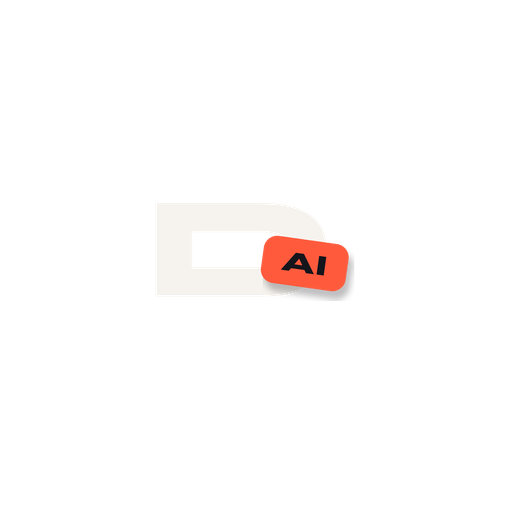
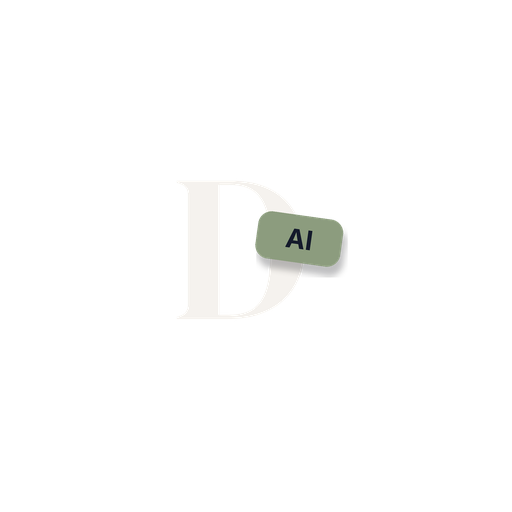
Nouvelle identité : bleu nuit, kaki et sable, titres en DM Serif Display
Claude-Session: https://claude.ai/code/session_01YU2vJee3xSV8i4XqAumL4W

Changed region(s): [[0.5, 0.4062, 0.6875, 0.5938]]

diff --git a/app/abonnement.tsx b/app/abonnement.tsx
@@ -49,7 +49,7 @@ function PlanCard({ plan, price, selected, onPress }: { plan: (typeof PLANS)[num
         </View>
         <View style={{ flexDirection: 'row', alignItems: 'center', gap: 10 }}>
           <AppText variant="bodyStrong">{price} {plan.unit}</AppText>
-          <Animated.View style={[{ width: 22, height: 22, borderRadius: 11, backgroundColor: '#FFFFFF' }, radio]} />
+          <Animated.View style={[{ width: 22, height: 22, borderRadius: 11, backgroundColor: colors.surface }, radio]} />
         </View>
       </Animated.View>
     </PressableScale>
@@ -107,32 +107,32 @@ export default function PaywallScreen() {
 
   return (
     <View style={{ flex: 1, backgroundColor: colors.background }}>
-      <View style={{ backgroundColor: '#2B44C6', borderBottomLeftRadius: 32, borderBottomRightRadius: 32 }}>
+      <View style={{ backgroundColor: colors.brand, borderBottomLeftRadius: 32, borderBottomRightRadius: 32 }}>
         <SafeAreaView edges={['top']} style={{ paddingHorizontal: 20, paddingBottom: 28, gap: 16 }}>
           <View style={{ flexDirection: 'row', justifyContent: 'space-between', alignItems: 'center', paddingTop: 8 }}>
-            <AppText style={{ fontFamily: fonts.display, fontSize: 14, letterSpacing: 2 }} color="#FFFFFF">DRESSING AI · PREMIUM</AppText>
+            <AppText style={{ fontFamily: fonts.display, fontSize: 14, letterSpacing: 2 }} color={colors.onBrand}>DRESSING AI · PREMIUM</AppText>
             <PressableScale accessibilityRole="button" accessibilityLabel="Fermer" onPress={() => router.back()}
-              style={{ width: 44, height: 44, borderRadius: 22, backgroundColor: 'rgba(255,255,255,0.16)', alignItems: 'center', justifyContent: 'center' }}>
-              <Icon name="close" size={18} color="#FFFFFF" strokeWidth={2} />
+              style={{ width: 44, height: 44, borderRadius: 22, backgroundColor: colors.onBrand + '29', alignItems: 'center', justifyContent: 'center' }}>
+              <Icon name="close" size={18} color={colors.onBrand} strokeWidth={2} />
             </PressableScale>
           </View>
           <Animated.View entering={FadeInDown.duration(motion.slow)}>
-            <AppText style={{ fontFamily: fonts.display, fontSize: 34, lineHeight: 36 }} color="#FFFFFF">Ton styliste perso, chaque matin.</AppText>
+            <AppText style={{ fontFamily: fonts.display, fontSize: 34, lineHeight: 36 }} color={colors.onBrand}>Ton styliste perso, chaque matin.</AppText>
           </Animated.View>
           <View style={{ gap: 10 }}>
             {PERKS.map((p, k) => (
               <Animated.View key={p} entering={FadeInDown.delay(100 + k * 60).duration(motion.slow)} style={{ flexDirection: 'row', alignItems: 'center', gap: 10 }}>
-                <View style={{ width: 24, height: 24, borderRadius: 12, backgroundColor: '#F6D867', alignItems: 'center', justifyContent: 'center' }}>
-                  <Icon name="check" size={13} color="#15151C" strokeWidth={2.8} />
+                <View style={{ width: 24, height: 24, borderRadius: 12, backgroundColor: colors.highlight, alignItems: 'center', justifyContent: 'center' }}>
+                  <Icon name="check" size={13} color={colors.onHighlight} strokeWidth={2.8} />
                 </View>
-                <AppText color="#FFFFFF" style={{ fontFamily: fonts.bodyMedium }}>{p}</AppText>
+                <AppText color={colors.onBrand} style={{ fontFamily: fonts.bodyMedium }}>{p}</AppText>
               </Animated.View>
             ))}
           </View>
         </SafeAreaView>
         <Animated.View entering={ZoomIn.delay(250).springify()} style={{ position: 'absolute', right: 18, bottom: -16 }}>
-          <View style={{ backgroundColor: '#FF5A3C', borderRadius: 14, paddingHorizontal: 14, paddingVertical: 9, transform: [{ rotate: '-5deg' }] }}>
-            <AppText style={{ fontFamily: fonts.display, fontSize: 14 }} color="#15151C">
+          <View style={{ backgroundColor: colors.accent, borderRadius: 14, paddingHorizontal: 14, paddingVertical: 9, transform: [{ rotate: '-5deg' }] }}>
+            <AppText style={{ fontFamily: fonts.bodyBold, fontSize: 14 }} color={colors.onAccent}>
               {access.state === 'premium' ? 'Premium' : access.state === 'trial' ? `${access.daysLeft} ${access.daysLeft > 1 ? 'jours' : 'jour'} d’essai` : 'Essai terminé'}
             </AppText>
           </View>

diff --git a/src/theme/tokens.ts b/src/theme/tokens.ts
@@ -1,18 +1,18 @@
 /**
- * Identité visuelle « le magazine du matin ».
+ * Identité visuelle « le magazine du matin » — palette « bleu nuit & kaki » (choix du fondateur, 2026-11-23).
  *
  * TOUT le style de l'appli part de ce fichier : changer une couleur ici la change partout.
  * Règle : aucun code couleur en dur dans les écrans, on passe toujours par `useTheme()`.
  */
 
 export const palette = {
-  cobalt: '#2B44C6', // couleur principale : boutons importants, éléments actifs
-  cobaltSoft: '#E9ECFB',
-  coral: '#FF5A3C', // accent : stickers, humeur, bouton Ajouter (texte encre dessus)
-  butter: '#F6D867', // petits badges, météo (texte encre dessus)
-  ink: '#15151C',
-  paper: '#F6F3EE',
-  paperRaised: '#FFFDF9',
+  night: '#1F2B4D', // bleu nuit : couleur principale (boutons importants, éléments actifs, en-tête Premium)
+  nightSoft: '#E3E6EF',
+  khaki: '#8C9C7E', // vert kaki : accent (stickers, humeur, bouton Premium ; texte encre dessus)
+  sand: '#F4DDAE', // sable : petits badges, météo (texte encre dessus)
+  ink: '#141A2B',
+  paper: '#F5F2EE',
+  paperRaised: '#FFFDFA',
   danger: '#B3261E',
   white: '#FFFFFF',
 } as const;
@@ -34,6 +34,9 @@ export type ThemeColors = {
   onHighlight: string;
   inverse: string;
   onInverse: string;
+  /** Couleur de marque, identique en mode clair et sombre (en-tête Premium). */
+  brand: string;
+  onBrand: string;
   chipBorder: string;
   track: string;
   danger: string;
@@ -43,52 +46,56 @@ export type ThemeColors = {
 export const lightColors: ThemeColors = {
   background: palette.paper,
   surface: palette.paperRaised,
-  surfaceBorder: '#ECE6DB',
-  divider: '#F0EBE2',
+  surfaceBorder: '#E6E2DA',
+  divider: '#EEEAE3',
   text: palette.ink,
-  textMuted: '#5F5B53',
-  textSubtle: '#9A9387',
-  primary: palette.cobalt,
-  primarySoft: palette.cobaltSoft,
+  textMuted: '#5D6170',
+  textSubtle: '#9497A3',
+  primary: palette.night,
+  primarySoft: palette.nightSoft,
   onPrimary: palette.white,
-  accent: palette.coral,
+  accent: palette.khaki,
   onAccent: palette.ink,
-  highlight: palette.butter,
+  highlight: palette.sand,
   onHighlight: palette.ink,
   inverse: palette.ink,
   onInverse: palette.paper,
-  chipBorder: '#DCD5C8',
-  track: '#D3CBBD',
+  brand: palette.night,
+  onBrand: palette.white,
+  chipBorder: '#D8D5CE',
+  track: '#CFCBC3',
   danger: palette.danger,
-  shadow: '#15151C',
+  shadow: palette.ink,
 };
 
 export const darkColors: ThemeColors = {
-  background: '#121218',
-  surface: '#1C1C24',
-  surfaceBorder: '#2A2A34',
-  divider: '#262630',
-  text: '#F3F0EA',
-  textMuted: '#ADA79C',
-  textSubtle: '#7D776D',
-  primary: '#6F84F0',
-  primarySoft: '#232A52',
-  onPrimary: '#0E1030',
-  accent: palette.coral,
-  onAccent: palette.ink,
-  highlight: palette.butter,
+  background: '#0F1320',
+  surface: '#171C2C',
+  surfaceBorder: '#252B3E',
+  divider: '#1F2536',
+  text: '#EEF0F6',
+  textMuted: '#A6ABBD',
+  textSubtle: '#737990',
+  primary: '#8FA3E0',
+  primarySoft: '#1E2742',
+  onPrimary: '#0F1320',
+  accent: '#A3B394',
+  onAccent: '#0F1320',
+  highlight: palette.sand,
   onHighlight: palette.ink,
-  inverse: palette.paper,
-  onInverse: palette.ink,
-  chipBorder: '#34343F',
-  track: '#3A3A44',
+  inverse: '#EEF0F6',
+  onInverse: '#0F1320',
+  brand: palette.night,
+  onBrand: palette.white,
+  chipBorder: '#2E3548',
+  track: '#343B50',
   danger: '#FF8A80',
   shadow: '#000000',
 };
 
 export const fonts = {
-  display: 'Syne_800ExtraBold',
-  displayBold: 'Syne_700Bold',
+  display: 'DMSerifDisplay_400Regular', // titres : serif élégante (une seule graisse)
+  displayBold: 'DMSerifDisplay_400Regular',
   body: 'Inter_400Regular',
   bodyMedium: 'Inter_500Medium',
   bodySemi: 'Inter_600SemiBold',

diff --git a/site/index.html b/site/index.html
@@ -2,16 +2,16 @@
 <html lang="fr"><head><meta charset="utf-8"><meta name="viewport" content="width=device-width, initial-scale=1">
 <title>Dressing AI · Ton look du jour, avec tes vêtements</title><meta name="description" content="Chaque matin, des tenues composées avec ta garde-robe, la météo et ton humeur.">
 <link rel="preconnect" href="https://fonts.googleapis.com"><link rel="preconnect" href="https://fonts.gstatic.com" crossorigin>
-<link href="https://fonts.googleapis.com/css2?family=Inter:wght@400;600&family=Syne:wght@700;800&display=swap" rel="stylesheet">
+<link href="https://fonts.googleapis.com/css2?family=Inter:wght@400;600;700&family=DM+Serif+Display&display=swap" rel="stylesheet">
 <style>
-:root{--paper:#F6F3EE;--ink:#15151C;--muted:#5F5B53;--cobalt:#2B44C6;--coral:#FF5A3C;--card:#FFFDF9}
-@media (prefers-color-scheme:dark){:root{--paper:#121218;--ink:#F3F0EA;--muted:#ADA79C;--cobalt:#6F84F0;--card:#1C1C24}}
+:root{--paper:#F5F2EE;--ink:#141A2B;--muted:#5D6170;--cobalt:#1F2B4D;--coral:#8C9C7E;--card:#FFFDFA}
+@media (prefers-color-scheme:dark){:root{--paper:#0F1320;--ink:#EEF0F6;--muted:#A6ABBD;--cobalt:#8FA3E0;--coral:#A3B394;--card:#171C2C}}
 *{box-sizing:border-box}body{margin:0;background:var(--paper);color:var(--ink);font:16px/1.6 Inter,system-ui,sans-serif}
 main{max-width:720px;margin:0 auto;padding:32px 20px 64px}a{color:var(--cobalt)}
-.brand{font:800 14px Syne,sans-serif;letter-spacing:2px;text-transform:uppercase;color:var(--cobalt);text-decoration:none}
-h1{font:800 clamp(32px,7vw,52px)/1.05 Syne,sans-serif;letter-spacing:-.5px;margin:28px 0 12px}
-h2{font:700 20px/1.3 Syne,sans-serif;color:var(--cobalt);margin:32px 0 8px}
-.muted{color:var(--muted)}.sticker{display:inline-block;background:var(--coral);color:#15151C;font:800 14px Syne,sans-serif;padding:8px 14px;border-radius:14px;transform:rotate(-3deg)}
+.brand{font:700 13px Inter,sans-serif;letter-spacing:2px;text-transform:uppercase;color:var(--cobalt);text-decoration:none}
+h1{font:400 clamp(36px,8vw,58px)/1.05 'DM Serif Display',serif;letter-spacing:-.3px;margin:28px 0 12px}
+h2{font:400 24px/1.25 'DM Serif Display',serif;color:var(--cobalt);margin:32px 0 8px}
+.muted{color:var(--muted)}.sticker{display:inline-block;background:var(--coral);color:#141A2B;font:700 14px Inter,sans-serif;padding:8px 14px;border-radius:14px;transform:rotate(-3deg)}
 .card{background:var(--card);border-radius:24px;padding:24px;margin-top:24px}footer{margin-top:48px;font-size:14px}footer a{margin-right:16px}
 ul{padding-left:20px}
 </style></head><body><main>

diff --git a/scripts/build-site.ts b/scripts/build-site.ts
@@ -8,16 +8,16 @@ const page = (title: string, body: string, description: string) => `<!doctype ht
 <html lang="fr"><head><meta charset="utf-8"><meta name="viewport" content="width=device-width, initial-scale=1">
 <title>${esc(title)}</title><meta name="description" content="${esc(description)}">
 <link rel="preconnect" href="https://fonts.googleapis.com"><link rel="preconnect" href="https://fonts.gstatic.com" crossorigin>
-<link href="https://fonts.googleapis.com/css2?family=Inter:wght@400;600&family=Syne:wght@700;800&display=swap" rel="stylesheet">
+<link href="https://fonts.googleapis.com/css2?family=Inter:wght@400;600;700&family=DM+Serif+Display&display=swap" rel="stylesheet">
 <style>
-:root{--paper:#F6F3EE;--ink:#15151C;--muted:#5F5B53;--cobalt:#2B44C6;--coral:#FF5A3C;--card:#FFFDF9}
-@media (prefers-color-scheme:dark){:root{--paper:#121218;--ink:#F3F0EA;--muted:#ADA79C;--cobalt:#6F84F0;--card:#1C1C24}}
+:root{--paper:#F5F2EE;--ink:#141A2B;--muted:#5D6170;--cobalt:#1F2B4D;--coral:#8C9C7E;--card:#FFFDFA}
+@media (prefers-color-scheme:dark){:root{--paper:#0F1320;--ink:#EEF0F6;--muted:#A6ABBD;--cobalt:#8FA3E0;--coral:#A3B394;--card:#171C2C}}
 *{box-sizing:border-box}body{margin:0;background:var(--paper);color:var(--ink);font:16px/1.6 Inter,system-ui,sans-serif}
 main{max-width:720px;margin:0 auto;padding:32px 20px 64px}a{color:var(--cobalt)}
-.brand{font:800 14px Syne,sans-serif;letter-spacing:2px;text-transform:uppercase;color:var(--cobalt);text-decoration:none}
-h1{font:800 clamp(32px,7vw,52px)/1.05 Syne,sans-serif;letter-spacing:-.5px;margin:28px 0 12px}
-h2{font:700 20px/1.3 Syne,sans-serif;color:var(--cobalt);margin:32px 0 8px}
-.muted{color:var(--muted)}.sticker{display:inline-block;background:var(--coral);color:#15151C;font:800 14px Syne,sans-serif;padding:8px 14px;border-radius:14px;transform:rotate(-3deg)}
+.brand{font:700 13px Inter,sans-serif;letter-spacing:2px;text-transform:uppercase;color:var(--cobalt);text-decoration:none}
+h1{font:400 clamp(36px,8vw,58px)/1.05 'DM Serif Display',serif;letter-spacing:-.3px;margin:28px 0 12px}
+h2{font:400 24px/1.25 'DM Serif Display',serif;color:var(--cobalt);margin:32px 0 8px}
+.muted{color:var(--muted)}.sticker{display:inline-block;background:var(--coral);color:#141A2B;font:700 14px Inter,sans-serif;padding:8px 14px;border-radius:14px;transform:rotate(-3deg)}
 .card{background:var(--card);border-radius:24px;padding:24px;margin-top:24px}footer{margin-top:48px;font-size:14px}footer a{margin-right:16px}
 ul{padding-left:20px}
 </style></head><body><main>

diff --git a/site/confidentialite.html b/site/confidentialite.html
@@ -2,16 +2,16 @@
 <html lang="fr"><head><meta charset="utf-8"><meta name="viewport" content="width=device-width, initial-scale=1">
 <title>Politique de confidentialité · Dressing AI</title><meta name="description" content="Politique de confidentialité">
 <link rel="preconnect" href="https://fonts.googleapis.com"><link rel="preconnect" href="https://fonts.gstatic.com" crossorigin>
-<link href="https://fonts.googleapis.com/css2?family=Inter:wght@400;600&family=Syne:wght@700;800&display=swap" rel="stylesheet">
+<link href="https://fonts.googleapis.com/css2?family=Inter:wght@400;600;700&family=DM+Serif+Display&display=swap" rel="stylesheet">
 <style>
-:root{--paper:#F6F3EE;--ink:#15151C;--muted:#5F5B53;--cobalt:#2B44C6;--coral:#FF5A3C;--card:#FFFDF9}
-@media (prefers-color-scheme:dark){:root{--paper:#121218;--ink:#F3F0EA;--muted:#ADA79C;--cobalt:#6F84F0;--card:#1C1C24}}
+:root{--paper:#F5F2EE;--ink:#141A2B;--muted:#5D6170;--cobalt:#1F2B4D;--coral:#8C9C7E;--card:#FFFDFA}
+@media (prefers-color-scheme:dark){:root{--paper:#0F1320;--ink:#EEF0F6;--muted:#A6ABBD;--cobalt:#8FA3E0;--coral:#A3B394;--card:#171C2C}}
 *{box-sizing:border-box}body{margin:0;background:var(--paper);color:var(--ink);font:16px/1.6 Inter,system-ui,sans-serif}
 main{max-width:720px;margin:0 auto;padding:32px 20px 64px}a{color:var(--cobalt)}
-.brand{font:800 14px Syne,sans-serif;letter-spacing:2px;text-transform:uppercase;color:var(--cobalt);text-decoration:none}
-h1{font:800 clamp(32px,7vw,52px)/1.05 Syne,sans-serif;letter-spacing:-.5px;margin:28px 0 12px}
-h2{font:700 20px/1.3 Syne,sans-serif;color:var(--cobalt);margin:32px 0 8px}
-.muted{color:var(--muted)}.sticker{display:inline-block;background:var(--coral);color:#15151C;font:800 14px Syne,sans-serif;padding:8px 14px;border-radius:14px;transform:rotate(-3deg)}
+.brand{font:700 13px Inter,sans-serif;letter-spacing:2px;text-transform:uppercase;color:var(--cobalt);text-decoration:none}
+h1{font:400 clamp(36px,8vw,58px)/1.05 'DM Serif Display',serif;letter-spacing:-.3px;margin:28px 0 12px}
+h2{font:400 24px/1.25 'DM Serif Display',serif;color:var(--cobalt);margin:32px 0 8px}
+.muted{color:var(--muted)}.sticker{display:inline-block;background:var(--coral);color:#141A2B;font:700 14px Inter,sans-serif;padding:8px 14px;border-radius:14px;transform:rotate(-3deg)}
 .card{background:var(--card);border-radius:24px;padding:24px;margin-top:24px}footer{margin-top:48px;font-size:14px}footer a{margin-right:16px}
 ul{padding-left:20px}
 </style></head><body><main>

diff --git a/site/cgu.html b/site/cgu.html
@@ -2,16 +2,16 @@
 <html lang="fr"><head><meta charset="utf-8"><meta name="viewport" content="width=device-width, initial-scale=1">
 <title>Conditions d’utilisation · Dressing AI</title><meta name="description" content="Conditions d’utilisation">
 <link rel="preconnect" href="https://fonts.googleapis.com"><link rel="preconnect" href="https://fonts.gstatic.com" crossorigin>
-<link href="https://fonts.googleapis.com/css2?family=Inter:wght@400;600&family=Syne:wght@700;800&display=swap" rel="stylesheet">
+<link href="https://fonts.googleapis.com/css2?family=Inter:wght@400;600;700&family=DM+Serif+Display&display=swap" rel="stylesheet">
 <style>
-:root{--paper:#F6F3EE;--ink:#15151C;--muted:#5F5B53;--cobalt:#2B44C6;--coral:#FF5A3C;--card:#FFFDF9}
-@media (prefers-color-scheme:dark){:root{--paper:#121218;--ink:#F3F0EA;--muted:#ADA79C;--cobalt:#6F84F0;--card:#1C1C24}}
+:root{--paper:#F5F2EE;--ink:#141A2B;--muted:#5D6170;--cobalt:#1F2B4D;--coral:#8C9C7E;--card:#FFFDFA}
+@media (prefers-color-scheme:dark){:root{--paper:#0F1320;--ink:#EEF0F6;--muted:#A6ABBD;--cobalt:#8FA3E0;--coral:#A3B394;--card:#171C2C}}
 *{box-sizing:border-box}body{margin:0;background:var(--paper);color:var(--ink);font:16px/1.6 Inter,system-ui,sans-serif}
 main{max-width:720px;margin:0 auto;padding:32px 20px 64px}a{color:var(--cobalt)}
-.brand{font:800 14px Syne,sans-serif;letter-spacing:2px;text-transform:uppercase;color:var(--cobalt);text-decoration:none}
-h1{font:800 clamp(32px,7vw,52px)/1.05 Syne,sans-serif;letter-spacing:-.5px;margin:28px 0 12px}
-h2{font:700 20px/1.3 Syne,sans-serif;color:var(--cobalt);margin:32px 0 8px}
-.muted{color:var(--muted)}.sticker{display:inline-block;background:var(--coral);color:#15151C;font:800 14px Syne,sans-serif;padding:8px 14px;border-radius:14px;transform:rotate(-3deg)}
+.brand{font:700 13px Inter,sans-serif;letter-spacing:2px;text-transform:uppercase;color:var(--cobalt);text-decoration:none}
+h1{font:400 clamp(36px,8vw,58px)/1.05 'DM Serif Display',serif;letter-spacing:-.3px;margin:28px 0 12px}
+h2{font:400 24px/1.25 'DM Serif Display',serif;color:var(--cobalt);margin:32px 0 8px}
+.muted{color:var(--muted)}.sticker{display:inline-block;background:var(--coral);color:#141A2B;font:700 14px Inter,sans-serif;padding:8px 14px;border-radius:14px;transform:rotate(-3deg)}
 .card{background:var(--card);border-radius:24px;padding:24px;margin-top:24px}footer{margin-top:48px;font-size:14px}footer a{margin-right:16px}
 ul{padding-left:20px}
 </style></head><body><main>

diff --git a/app/(tabs)/index.tsx b/app/(tabs)/index.tsx
@@ -22,7 +22,7 @@ import { getTodayWeather } from '@/lib/weather';
 import { useStore } from '@/state/AppStore';
 import { useAuth } from '@/state/AuthStore';
 import { useTheme } from '@/theme/ThemeProvider';
-import { motion, space } from '@/theme/tokens';
+import { fonts, motion, space } from '@/theme/tokens';
 import { MOODS, type Garment, type Mood, type Outfit, type Weather } from '@/types';
 
 const SIDE = 20;
@@ -55,7 +55,7 @@ function OutfitCard({ outfit, pieces, index, total, width, scrollX, moodLabel }:
     <Animated.View style={[{ width, borderRadius: 28, backgroundColor: tint, padding: 16, paddingTop: 18, gap: 14,
       shadowColor: colors.shadow, shadowOpacity: 0.08, shadowRadius: 18, shadowOffset: { width: 0, height: 12 }, elevation: 3 }, anim]}>
       <View style={{ paddingRight: 100, gap: 4 }}>
-        <AppText variant="eyebrow" color={colors.primary} style={{ fontFamily: 'Syne_700Bold', letterSpacing: 1.7 }}>
+        <AppText variant="eyebrow" color={colors.primary} style={{ fontFamily: fonts.bodyBold, letterSpacing: 1.7 }}>
           Look 0{index + 1} / 0{total}
         </AppText>
         <AppText variant="title" color={readableOn(tint)}>{outfit.name}</AppText>
@@ -267,7 +267,7 @@ export default function TodayScreen() {
         {outfits[active]?.tip ? (
           <Animated.View key={outfits[active].id} entering={FadeInDown.duration(motion.base)}
             style={{ marginHorizontal: SIDE, flexDirection: 'row', gap: 12, padding: 14, borderRadius: 18, borderWidth: 1, borderColor: colors.surfaceBorder, backgroundColor: colors.surface }}>
-            <AppText style={{ fontFamily: 'Syne_800ExtraBold', fontSize: 40, lineHeight: 40, color: colors.accent }}>“</AppText>
+            <AppText style={{ fontFamily: fonts.display, fontSize: 46, lineHeight: 46, color: colors.accent }}>“</AppText>
             <View style={{ flex: 1, gap: 3 }}>
               <AppText variant="eyebrow">Le mot du styliste</AppText>
               <AppText variant="small">{outfits[active].tip}</AppText>

diff --git a/app/(tabs)/historique.tsx b/app/(tabs)/historique.tsx
@@ -6,7 +6,7 @@ import { PressableScale } from '@/components/PressableScale';
 import { Screen } from '@/components/ui';
 import { useStore } from '@/state/AppStore';
 import { useTheme } from '@/theme/ThemeProvider';
-import { motion, space } from '@/theme/tokens';
+import { fonts, motion, space } from '@/theme/tokens';
 import { MOODS } from '@/types';
 
 export default function HistoryScreen() {
@@ -51,14 +51,14 @@ export default function HistoryScreen() {
                 <PressableScale pressedScale={0.98} accessibilityRole="button" onPress={() => router.push(`/look/${h.date}`)}
                   style={{ flexDirection: 'row', alignItems: 'center', gap: 12, padding: 12, borderRadius: 20, borderWidth: 1, borderColor: colors.surfaceBorder, backgroundColor: colors.surface }}>
                   <View style={{ width: 44, alignItems: 'center' }}>
-                    <AppText style={{ fontFamily: 'Syne_800ExtraBold', fontSize: 24, lineHeight: 26 }}>{d.getDate()}</AppText>
+                    <AppText style={{ fontFamily: fonts.display, fontSize: 26, lineHeight: 28 }}>{d.getDate()}</AppText>
                     <AppText variant="tiny" muted style={{ letterSpacing: 1 }}>{day}</AppText>
                   </View>
                   <View style={{ width: 64, flexDirection: 'row', flexWrap: 'wrap', gap: 4 }}>
                     {swatches.map((c, i) => <View key={i} style={{ width: 30, height: 30, borderRadius: 8, backgroundColor: c }} />)}
                   </View>
                   <View style={{ flex: 1, gap: 3 }}>
-                    <AppText style={{ fontFamily: 'Syne_700Bold', fontSize: 17 }}>{h.outfit.name}</AppText>
+                    <AppText style={{ fontFamily: fonts.display, fontSize: 19 }}>{h.outfit.name}</AppText>
                     <AppText variant="small" muted style={{ fontSize: 12 }}>{h.tempC}° · {h.mood === 'free' ? 'IA libre' : `humeur ${mood}`}</AppText>
                   </View>
                 </PressableScale>

diff --git a/app/onboarding/index.tsx b/app/onboarding/index.tsx
@@ -8,7 +8,7 @@ import { Button, Screen, Sticker } from '@/components/ui';
 import { track } from '@/lib/analytics';
 import { useAuth } from '@/state/AuthStore';
 import { useTheme } from '@/theme/ThemeProvider';
-import { motion } from '@/theme/tokens';
+import { fonts, motion } from '@/theme/tokens';
 
 /**
  * Écran d'accueil : démarrage sans e-mail (compte anonyme), connexion par e-mail (Apple et Google viendront avec les comptes
@@ -33,10 +33,10 @@ export default function Welcome() {
       <View style={{ flex: 1, paddingHorizontal: 24, paddingBottom: 16, justifyContent: 'space-between' }}>
         <View style={{ paddingTop: 40, gap: 18 }}>
           <Animated.View entering={FadeInDown.duration(motion.slow)}>
-            <AppText variant="eyebrow" color={colors.primary} style={{ fontFamily: 'Syne_700Bold', letterSpacing: 2 }}>Dressing AI</AppText>
+            <AppText variant="eyebrow" color={colors.primary} style={{ fontFamily: fonts.bodyBold, letterSpacing: 2 }}>Dressing AI</AppText>
           </Animated.View>
           <Animated.View entering={FadeInDown.delay(80).duration(motion.slow)}>
-            <AppText style={{ fontFamily: 'Syne_800ExtraBold', fontSize: 46, lineHeight: 48, letterSpacing: -0.8 }}>
+            <AppText style={{ fontFamily: fonts.display, fontSize: 46, lineHeight: 50, letterSpacing: -0.5 }}>
               Ton look du jour, pensé avec tes vêtements.
             </AppText>
           </Animated.View>

diff --git a/app/(tabs)/profil.tsx b/app/(tabs)/profil.tsx
@@ -24,7 +24,7 @@ function Toggle({ on }: { on: boolean }) {
   const knob = useAnimatedStyle(() => ({ transform: [{ translateX: withSpring(on ? 20 : 0, motion.spring) }] }), [on]);
   return (
     <Animated.View style={[{ width: 48, height: 28, borderRadius: 14, padding: 3 }, track]}>
-      <Animated.View style={[{ width: 22, height: 22, borderRadius: 11, backgroundColor: '#FFFFFF' }, knob]} />
+      <Animated.View style={[{ width: 22, height: 22, borderRadius: 11, backgroundColor: colors.surface }, knob]} />
     </Animated.View>
   );
 }
@@ -80,7 +80,7 @@ export default function ProfileScreen() {
 
         <Animated.View entering={FadeInDown.duration(motion.slow)} style={{ flexDirection: 'row', alignItems: 'center', gap: 14 }}>
           <View style={{ width: 64, height: 64, borderRadius: 32, backgroundColor: colors.primary, alignItems: 'center', justifyContent: 'center' }}>
-            <AppText style={{ fontFamily: 'Syne_800ExtraBold', fontSize: 26 }} color={colors.onPrimary}>{initial}</AppText>
+            <AppText style={{ fontFamily: fonts.display, fontSize: 28 }} color={colors.onPrimary}>{initial}</AppText>
           </View>
           <View style={{ gap: 4 }}>
             <AppText variant="heading" style={{ fontSize: 20 }}>{profile.firstName || 'Mon compte'}</AppText>

diff --git a/app/_layout.tsx b/app/_layout.tsx
@@ -3,8 +3,7 @@ import { Inter_400Regular } from '@expo-google-fonts/inter/400Regular';
 import { Inter_500Medium } from '@expo-google-fonts/inter/500Medium';
 import { Inter_600SemiBold } from '@expo-google-fonts/inter/600SemiBold';
 import { Inter_700Bold } from '@expo-google-fonts/inter/700Bold';
-import { Syne_700Bold } from '@expo-google-fonts/syne/700Bold';
-import { Syne_800ExtraBold } from '@expo-google-fonts/syne/800ExtraBold';
+import { DMSerifDisplay_400Regular } from '@expo-google-fonts/dm-serif-display/400Regular';
 import { useFonts } from 'expo-font';
 import { SplashScreen, Stack } from 'expo-router';
 import { StatusBar } from 'expo-status-bar';
@@ -20,7 +19,7 @@ SplashScreen.preventAutoHideAsync().catch(() => {});
 function RootStack() {
   const { colors, isDark } = useTheme();
   const { ready } = useStore();
-  const [fontsLoaded] = useFonts({ Inter_400Regular, Inter_500Medium, Inter_600SemiBold, Inter_700Bold, Syne_700Bold, Syne_800ExtraBold });
+  const [fontsLoaded] = useFonts({ Inter_400Regular, Inter_500Medium, Inter_600SemiBold, Inter_700Bold, DMSerifDisplay_400Regular });
 
   useEffect(() => {
     if (fontsLoaded && ready) SplashScreen.hideAsync().catch(() => {});

diff --git a/scripts/smoke-web/smoke.js b/scripts/smoke-web/smoke.js
@@ -15,7 +15,7 @@ const { chromium } = require('playwright');
   const click = async (t) => { await page.getByText(t, { exact: false }).last().click(); await page.waitForTimeout(900); };
   await page.goto('http://localhost:8099', { waitUntil: 'networkidle', timeout: 120000 });
   await page.waitForTimeout(3000); await shot('1_accueil');
-  await click('Créer mon profil de style'); await shot('2_connexion');
+  await click('J’ai déjà un compte'); await shot('2_connexion');
   await page.goBack(); await page.waitForTimeout(800);
   await click('Mode démo'); await page.waitForTimeout(1500); await shot('3_questionnaire');
   // Prénom
